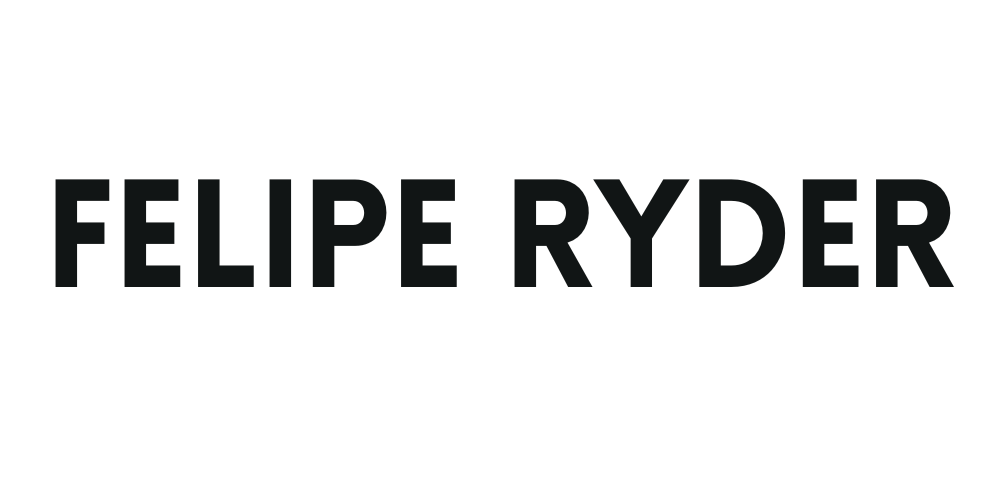
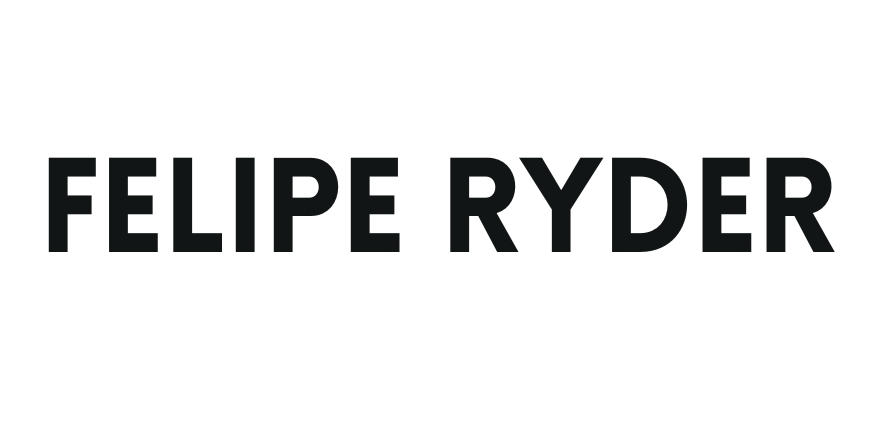
compressed images to improve page load time

diff --git a/assets/css/style.css b/assets/css/style.css
@@ -34,8 +34,7 @@ body {
 
 .feliperyder {
   height: 100px;
-vertical-align: middle;
-background: transparent;
+  vertical-align: middle;
 }
 
 #heading {
